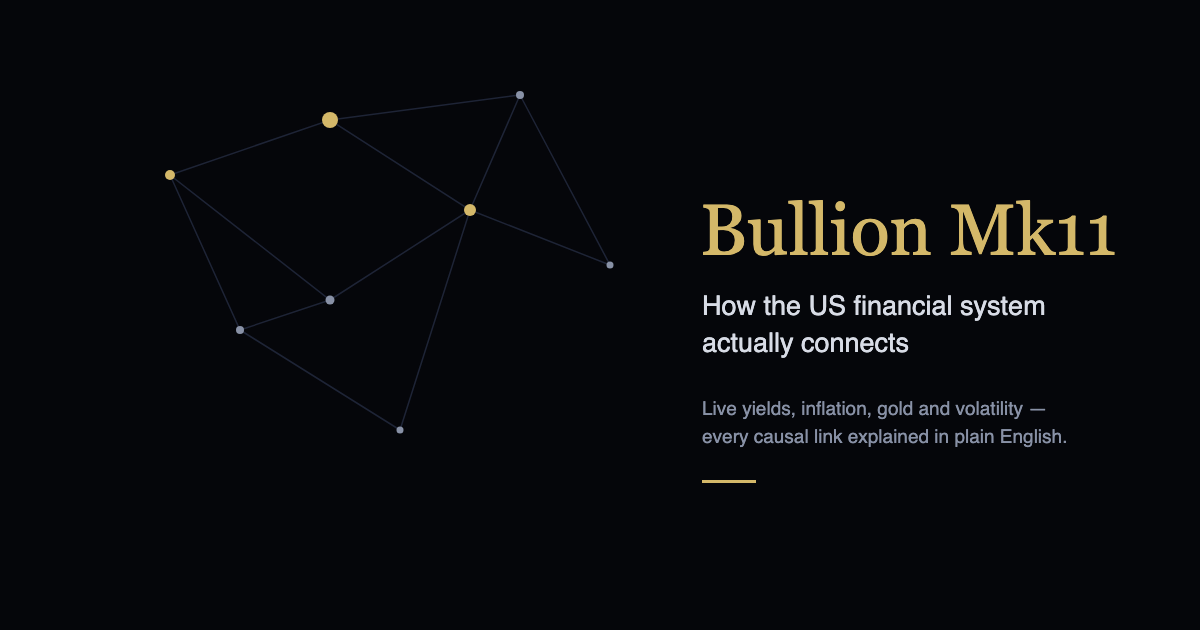
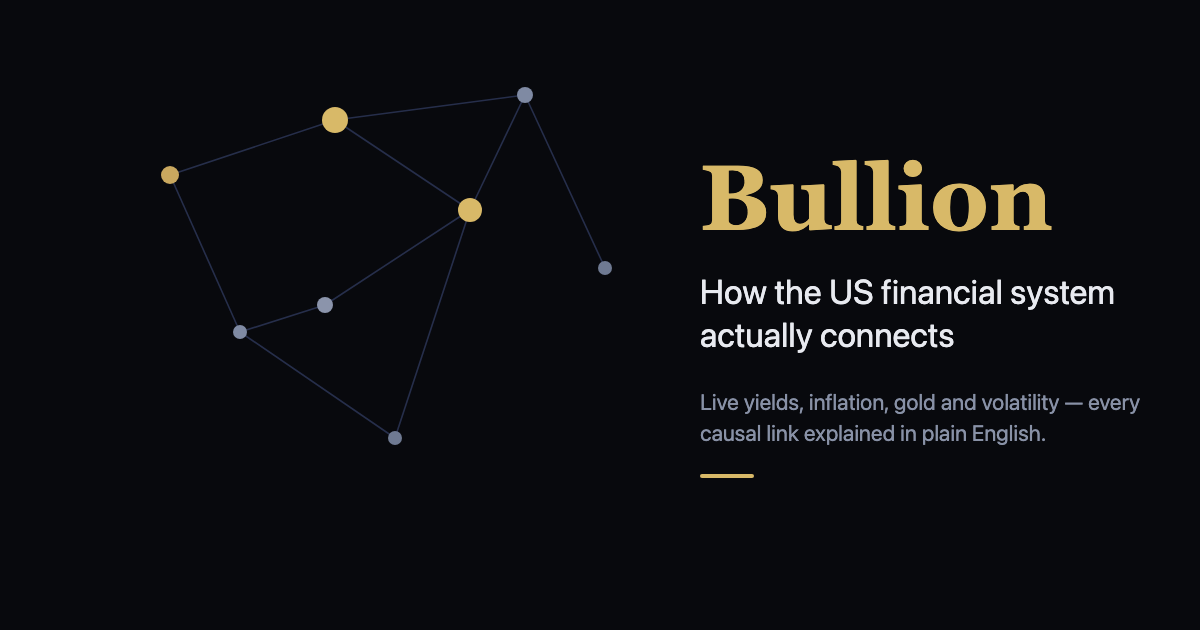
Fix stale share-preview: version-agnostic social card
The link-preview image (preview-card.png) had 'Bullion Mk11' baked into it and
every version pointed og:image at that one static file, so shared links always
previewed as Mk11 no matter the actual version (release.sh bumps og:title but
never this image). Regenerate the card with NO Mk number ('Bullion') so it can
never drift again; the version still shows in the page title + URL.

Also give the front door (index.html) its own og:/twitter: tags + og:image, so
crawlers that don't follow the redirect still get the correct card.

diff --git a/bullion-live-map/index.html b/bullion-live-map/index.html
@@ -8,6 +8,19 @@
      It always forwards to the current version below. To ship a new version,
      run ./release.sh <N> (it repoints the line below); never rename this file. -->
 <title>Bullion — US Financial System Map</title>
+<meta name="description" content="An interactive map of how the US financial system actually connects — live Treasury yields, inflation, gold and volatility, with every causal link explained in plain English.">
+<!-- Version-agnostic social card so shared-link previews never go stale. The
+     og:image is a static preview-card.png with NO Mk number baked in; the map's
+     version still shows in the page title + URL. These tags live on the front
+     door so crawlers that don't follow the redirect below still get a good card. -->
+<meta property="og:type" content="website">
+<meta property="og:title" content="Bullion — US Financial System Map">
+<meta property="og:description" content="An interactive map of how the US financial system actually connects — live Treasury yields, inflation, gold and volatility, with every causal link explained in plain English.">
+<meta property="og:url" content="https://nguyenminhthanh0403-hub.github.io/claudekit/bullion-live-map/">
+<meta property="og:image" content="https://nguyenminhthanh0403-hub.github.io/claudekit/bullion-live-map/preview-card.png">
+<meta property="og:image:width" content="1200">
+<meta property="og:image:height" content="630">
+<meta name="twitter:card" content="summary_large_image">
 <meta http-equiv="refresh" content="0; url=./bullion_mk16.html">
 <link rel="canonical" href="./bullion_mk16.html">
 <script>location.replace('./bullion_mk16.html' + location.search + location.hash);</script>
